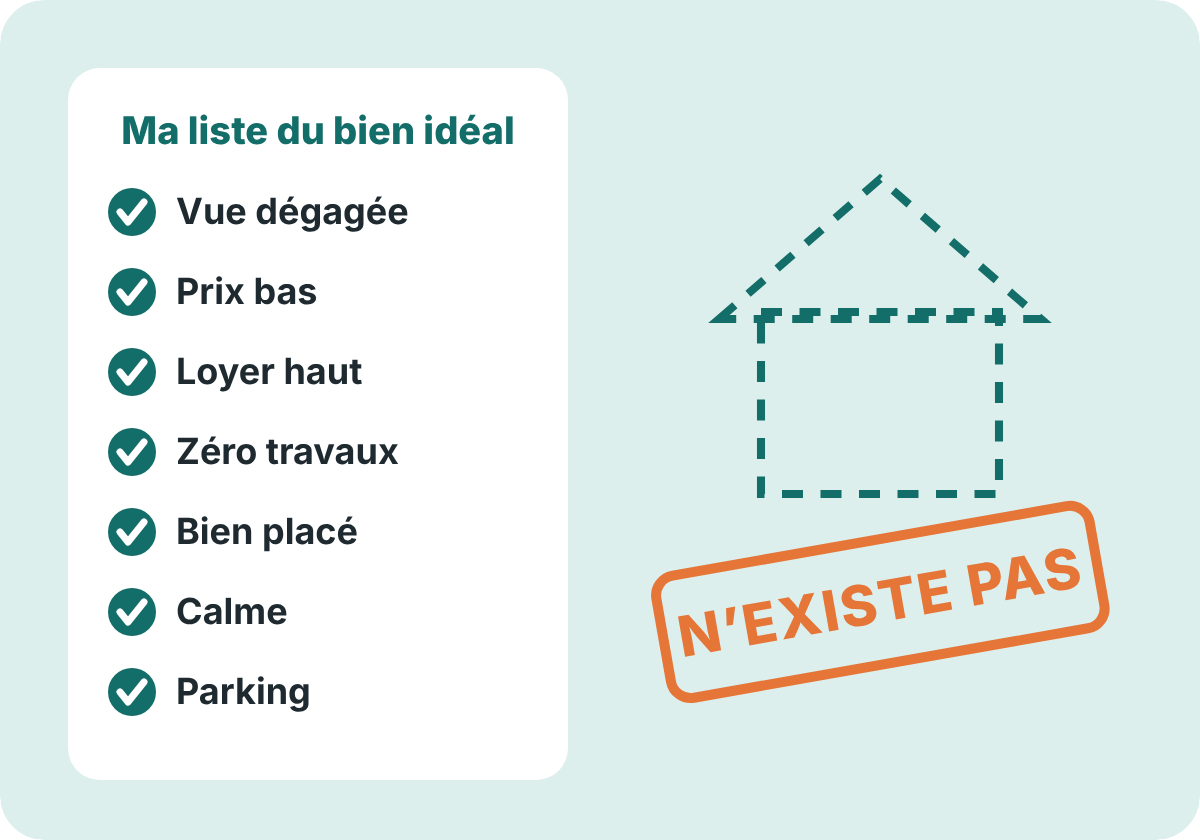
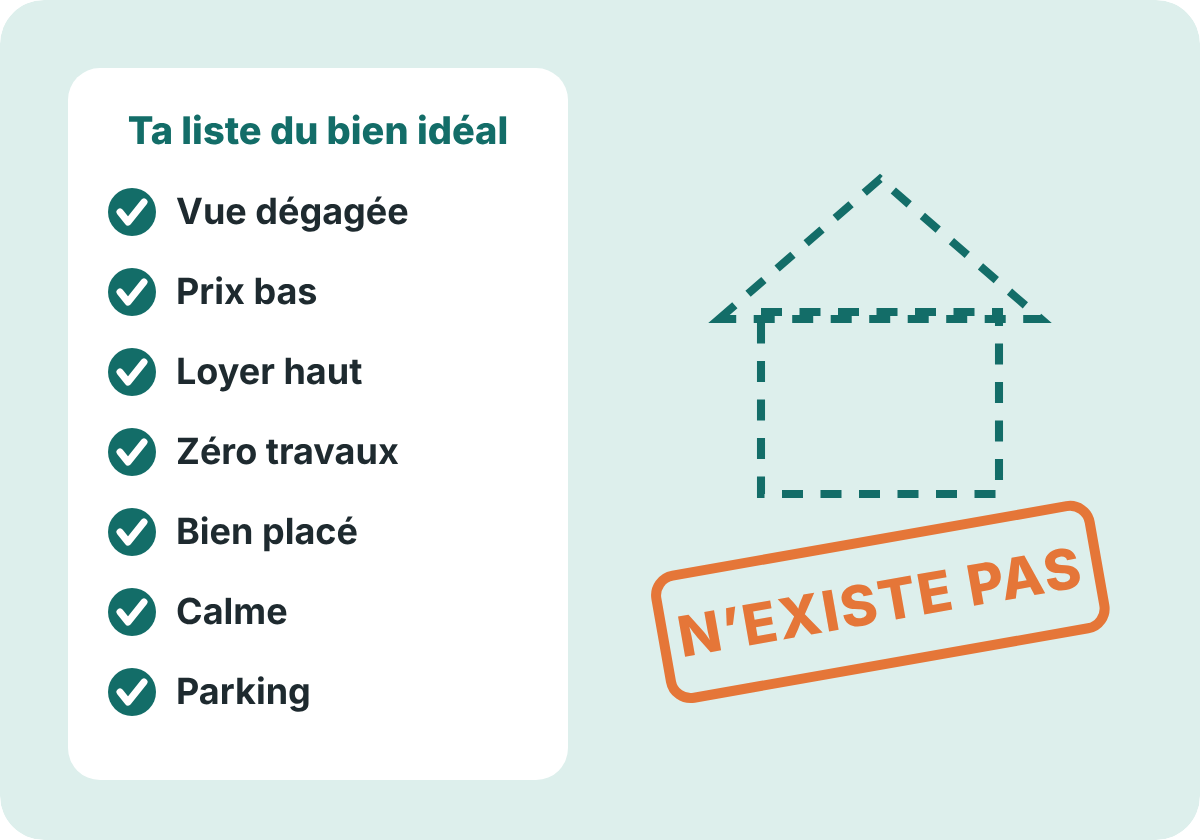
#147 : visuels au tutoiement, sans redites texte/image
Claude-Session: https://claude.ai/code/session_01QEEMWNZxp929Pj8nsugEVU

Changed region(s): [[0.0925, 0.1238, 0.4317, 0.1857]]

diff --git a/outils/build147.py b/outils/build147.py
@@ -59,9 +59,8 @@ A(f'<p style="margin:0 0 28px 0;text-align:center;">{btn("Instagram",LINK_IG,"#F
 
 # ---------------- FESTIVAL LYANNAJ ----------------
 A(kicker("Rappel",ORANGE)+h3("Bloque tes soirées du 20, 21 et 22 novembre"))
-A(p("Avant d’entrer dans le sujet du jour, une date à garder dans ton agenda : le Festival Lyannaj revient."))
+A(p("Avant d’entrer dans le sujet du jour, une date à garder dans ton agenda :"))
 A(png("02-festival","Festival Lyannaj, en live sur Zoom et gratuit : vendredi 20 novembre, soirée immobilier ; samedi 21 novembre, soirée business ; dimanche 22 novembre, soirée dévoilée bientôt. En soirée, heure de Paris.",mb=20))
-A(p("Cette année, on change de format : c’est en live sur Zoom, et c’est gratuit. Aux Antilles, dans l’Hexagone ou ailleurs, tu peux y être. La troisième soirée, je t’en reparle très vite."))
 A(p("Pourquoi ce rendez-vous compte ? Parce que c’est le moment de l’année où on fait le point ensemble, avec des acteurs de la Caraïbe qui font avancer le mouvement."))
 A(p("Si tu as avancé cette année, on va célébrer ce que tu as accompli. Et si ton projet n’a pas bougé pendant que d’autres avançaient, c’est ta dernière occasion de l’année pour rattraper le train : récupérer nos dernières stratégies et repartir avec un plan clair."))
 A(card(p(f"Pour l’instant, une seule chose à faire : {b('bloque ces trois soirées')}. Les infos pour t’inscrire arrivent très vite, ici même, dans le Journal.",size=17,mb=0),bg=ORANGE_L,pad=20,mb=30))
@@ -79,11 +78,10 @@ A(card(kicker("Le témoignage de la semaine")+
 
 # ---------------- PARTIE 1 ----------------
 A(gap(14)+kicker("Partie 1")+h3("Combien d'annonces dans tes favoris ?"))
-A(p("Petite question, et réponds honnêtement. Combien d'annonces tu as enregistrées dans tes favoris ? Sur ton téléphone, sur les sites, dans tes captures d'écran ?"))
+A(p("Petite question, et réponds honnêtement. Sur ton téléphone, sur les sites, dans tes captures d'écran :"))
 A(png("03-favoris","Dans tes favoris : 10 ? 30 ? Analysés jusqu'au bout : ? Offres faites : 0."))
-A(p("Dix ? Trente ? Tu as arrêté de compter ? Et parmi elles, combien de biens tu as vraiment analysés jusqu'au bout ? Avec le calcul, la visite, les questions ? Et combien d'offres tu as faites ?"))
-A(p(f"Si la réponse est « zéro », {b('cette édition est pour toi')}."))
-A(p("Parce que tu n'as pas un problème de motivation. Tu cherches. Tu cherches même beaucoup. Ton problème, c'est que chaque bien a un truc."))
+A(p(f"Si ta dernière ligne affiche « zéro », {b('cette édition est pour toi')}."))
+A(p("Parce que tu n'as pas un problème de motivation. Tu cherches. Tu cherches même beaucoup. Ton problème est ailleurs :"))
 A(png("04-un-truc","Chaque bien a un truc : bien placé mais cuisine à refaire ; bon loyer mais 3e étage sans ascenseur ; coche presque tout, mais peut-être mieux le mois prochain."))
 A(png("05-will","Will : Tu vois le schéma ?",mb=24))
 A(p(f"Tu n'es pas en train de chercher {b('un')} bien. Tu es en train de chercher {b('le')} bien. Celui qui n'a aucun défaut."))
@@ -96,8 +94,7 @@ A(kicker("Partie 2")+h3("Ce qu'un prix Nobel a compris"))
 A(p(f"Dans les années 1950, un chercheur américain, {b('Herbert Simon')}, s'est intéressé à la façon dont on prend vraiment nos décisions. Pas dans les manuels. Dans la vraie vie."))
 A(p(f"Son constat : on n'a jamais toutes les informations, ni tout le temps du monde, pour comparer toutes les options possibles. Donc dans la vraie vie, on ne cherche pas l'option parfaite. On fixe un {b('seuil')}, et on retient une option qui le dépasse."))
 A(png("07-seuil","La méthode du seuil, Herbert Simon, prix Nobel d'économie 1978 : on retient la première option qui dépasse le seuil. Satisficing = satisfaire + suffire.",mb=20))
-A(p(f"Il a popularisé un mot pour ça : {i('satisficing')}, un mélange en anglais de « satisfaire » et de « suffire ». Ses recherches sur la prise de décision lui ont valu le {b('prix Nobel d’économie en 1978')}."))
-A(p(f"Bien plus tard, en {b('2002')}, le psychologue {b('Barry Schwartz')} et son équipe ont comparé deux profils : les {i('maximisateurs')}, qui veulent absolument la meilleure option, et les {i('satisficeurs')}, qui se fixent des critères et choisissent ce qui est assez bon."))
+A(p(f"Il a appelé ça le {i('satisficing')}. Bien plus tard, le psychologue {b('Barry Schwartz')} et son équipe ont comparé deux profils :"))
 A(png("08-max-sat","Maximisateurs : moins heureux, moins satisfaits de leur vie, plus de regrets. Satisficeurs : critères fixés, décident, vivent mieux leurs choix. Barry Schwartz et son équipe, 2002.",mb=20))
 A(p("Dans une de leurs études, les maximisateurs étaient même moins satisfaits de leurs propres achats. Ils cherchaient plus. Mais ils vivaient moins bien leurs choix."))
 A(card(p(i("Et concrètement, pour ton projet immobilier, ça veut dire quoi ?"),size=16,color=PEACH,mb=10)+
@@ -118,13 +115,12 @@ A(f'<table role="presentation" width="100%" cellpadding="0" cellspacing="0" bord
 # ---------------- PARTIE 4 : MÉTHODE ----------------
 A(kicker("Partie 4")+h3("Ta méthode en 4 étapes"))
 A(png("10-will-pouce","Will : Une feuille. Quatre étapes. Dans l'ordre.",mb=16))
-A(p("Prends une feuille, ou une note sur ton téléphone. Et avance dans l'ordre.",size=17,color=MUTED,align="center"))
 A(png("11-marches","Les 4 étapes : 1. Tes 3 critères, 2. Deux colonnes, 3. Règle de décision, 4. Stop au bien rêvé.",mb=30))
 
 A(step("1","Écris tes 3 non-négociables"))
 A(p(f"Avant de rouvrir la moindre annonce, écris les {b('trois')} critères sans lesquels tu ne signes pas. Par exemple :"))
 A(png("12-criteres","Mes 3 non-négociables : budget maximum frais compris ; rentabilité minimale après charges ; la zone, et pourquoi elle. Tout le reste est du bonus : la vue, le carrelage, l'étage.",mb=18))
-A(p(f"Trois. Pas douze. Tout le reste, c'est du {b('bonus')} : agréable si tu l'as, pas disqualifiant si tu ne l'as pas.",mb=32))
+A(p(f"Trois. Pas douze. Le reste est agréable si tu l'as, {b('pas disqualifiant')} si tu ne l'as pas.",mb=32))
 
 A(step("2","Trie les défauts en deux colonnes"))
 A(p("Parce que tous les défauts ne se valent pas."))
@@ -140,15 +136,15 @@ A(p("Et si tu dis non, tu sais pourquoi. La raison est écrite. Pas « j'ai un d
 
 A(step("4","Arrête de comparer avec le bien imaginaire"))
 A(p("Quand tu hésites, demande-toi avec quoi tu compares. Si c'est un autre bien réel, disponible, avec des chiffres : c'est une vraie comparaison. Continue."))
+A(p(f"Mais si tu compares avec « celui qui va peut-être sortir le mois prochain », tu compares avec un bien {b('qui n’existe pas')}.",mb=18))
 A(png("15-imaginaire","Le bien réel a un prix, des défauts, des chiffres. Le bien imaginaire n'a ni prix, ni défaut, ni travaux : il gagne toujours.",mb=18))
-A(p(f"Mais si tu compares avec « celui qui va peut-être sortir le mois prochain », tu compares avec un bien {b('qui n’existe pas')}. Et un bien qui n'existe pas gagnera toujours.",mb=34))
+A(gap(8))
 
 # ---------------- PARTIE 5 : LUDOVIC ----------------
 A(kicker("Partie 5")+h3("Ce que ça change, concrètement"))
 A(p("Imagine Ludovic. Il vit au Lamentin, il a mis de côté un apport, et il veut acheter un appartement à louer."))
 A(png("16-ludovic","Avant, à la recherche du bien parfait : 18 mois de recherche, une dizaine de visites, aucune offre, toujours comparé à un bien imaginaire. Après, avec ses critères écrits : 3 critères, favoris triés, il en reste 2, un chiffré et un écarté, première offre une semaine après.",mb=22))
-A(p(f"Avant, chaque nouveau bien, il le comparait à un appartement idéal qu'il avait dans la tête. Après, il pose ses 3 non-négociables : son budget frais compris, sa rentabilité minimale, et deux communes précises. La plupart de ses favoris ne passent même pas l'étape 1."))
-A(p(f"Il en reste deux. Le premier a une salle de bain à refaire : colonne 1, réparable, il fait chiffrer. Le deuxième est au bord d'une route très passante : colonne 2, définitif, il l'écarte, raison écrite. Une semaine plus tard, il fait sa {b('première offre')}."))
+A(p("Ses deux finalistes ? Le premier a une salle de bain à refaire : réparable, il fait chiffrer. Le deuxième est au bord d'une route très passante : définitif, il l'écarte."))
 A(p("Est-ce que c'est le bien parfait ? Non.",size=19,w="bold",align="center",mb=6))
 A(p(f"Est-ce que c'est un bien qui passe son seuil, avec des défauts connus et chiffrés ? {b('Oui.')}",align="center"))
 A(p(f"Rien n'a changé dans son budget. Ce qui a changé, c'est qu'il sait enfin {b('ce qu’il cherche')}. Et sa recherche a enfin une {b('fin')}."))

diff --git a/outils/illus147.py b/outils/illus147.py
@@ -113,7 +113,7 @@ out["04-un-truc"]=svg(600,462,g,GREY_L)
 # 06. LE BIEN PARFAIT N'EXISTE PAS ---------------------------------------------------------
 crit=["Vue dégagée","Prix bas","Loyer haut","Zéro travaux","Bien placé","Calme","Parking"]
 g=(f'<rect x="34" y="34" width="250" height="356" rx="16" fill="{WHITE}"/>'
-   + txt(159,72,"Ma liste du bien idéal",19,TEAL,800))
+   + txt(159,72,"Ta liste du bien idéal",19,TEAL,800))
 for k,c in enumerate(crit):
     y=106+k*40
     g+=check(66,y,TEAL,12)+txt(88,y+6,c,18,INK,700,anchor="start")
@@ -168,7 +168,7 @@ def coin(cx,cy): return f'<circle cx="{cx}" cy="{cy}" r="26" fill="{TEAL}"/>'+tx
 def chart(cx,cy): return "".join(f'<rect x="{cx-24+k*18}" y="{cy+20-hh}" width="12" height="{hh}" rx="3" fill="{TEAL}"/>' for k,hh in enumerate([16,28,42]))
 def pin(cx,cy): return f'<path d="M{cx} {cy+28} C{cx-26} {cy} {cx-22} {cy-26} {cx} {cy-26} C{cx+22} {cy-26} {cx+26} {cy} {cx} {cy+28} Z" fill="{TEAL}"/><circle cx="{cx}" cy="{cy-6}" r="9" fill="{WHITE}"/>'
 cards=[(coin,"Budget max","frais compris"),(chart,"Rentabilité","mini, après charges"),(pin,"La zone","et pourquoi elle")]
-g=txt(300,46,"MES 3 NON-NÉGOCIABLES",17,TEAL,800,ls=2)
+g=txt(300,46,"TES 3 NON-NÉGOCIABLES",17,TEAL,800,ls=2)
 for k,(ic,a,b) in enumerate(cards):
     x=24+k*192
     g+=(f'<rect x="{x}" y="70" width="168" height="190" rx="16" fill="{WHITE}" stroke="{TEAL}" stroke-width="3"/>'
@@ -205,12 +205,12 @@ def arrow(x1,y1,x2,y2):
     a=math.atan2(y2-y1,x2-x1);
     return (f'<line x1="{x1}" y1="{y1}" x2="{x2}" y2="{y2}" stroke="{INK}" stroke-width="4" stroke-linecap="round"/>'
             f'<path d="M{x2-12*math.cos(a-0.5):.1f} {y2-12*math.sin(a-0.5):.1f} L{x2} {y2} L{x2-12*math.cos(a+0.5):.1f} {y2-12*math.sin(a+0.5):.1f}" stroke="{INK}" stroke-width="4" fill="none" stroke-linecap="round" stroke-linejoin="round"/>')
-g=(box(150,28,300,72,"Le bien passe","mes 3 critères ?",WHITE,INK) + arrow(300,104,300,140)
-   + box(150,144,300,72,"Je l’analyse en entier","dans la semaine",TEAL,WHITE)
+g=(box(150,28,300,72,"Le bien passe","tes 3 critères ?",WHITE,INK) + arrow(300,104,300,140)
+   + box(150,144,300,72,"Tu l’analyses en entier","dans la semaine",TEAL,WHITE)
    + arrow(250,220,160,262) + arrow(350,220,440,262)
-   + box(28,266,260,72,"Je fais","une offre",MANGO,WHITE) + box(312,266,260,72,"J’écris pourquoi","je n’en fais pas",WHITE,INK)
-   + txt(300,376,"Chaque bien qui mérite ton attention reçoit une réponse.",16,GREY,700))
-out["14-regle"]=svg(600,400,g,TEAL_L)
+   + box(28,266,260,72,"Tu fais","une offre",MANGO,WHITE) + box(312,266,260,72,"Tu écris pourquoi","tu n’en fais pas",WHITE,INK)
+   + "")
+out["14-regle"]=svg(600,362,g,TEAL_L)
 
 # 15. RÉEL vs IMAGINAIRE ---------------------------------------------------------------------------
 g=(txt(150,52,"LE BIEN RÉEL",16,TEAL,800,ls=2) + txt(450,52,"LE BIEN IMAGINAIRE",16,MANGO_D,800,ls=2)

diff --git a/outils/LISEZMOI.md b/outils/LISEZMOI.md
@@ -12,3 +12,7 @@ Règles d'affichage téléphone (à respecter dans tout nouveau bloc) :
 - Casser la détection de date d'Apple Mail : `1&zwnj;er janvier`.
 - Texte dans les illustrations : 20 px minimum (image de 600 px réduite à ~360 px sur téléphone).
 - Images publiées dans `NNN/` de ce dépôt. Dans le HTML, toujours épingler les adresses sur le commit exact : `https://cdn.jsdelivr.net/gh/VediGze/debrouya-assets@<SHA du commit>/NNN/` — jamais `@main`, que jsDelivr garde en cache plusieurs jours (images périmées).
+
+Règles éditoriales du format visuel :
+- Une illustration remplace le texte qu'elle montre : ne jamais répéter dans le texte ce que l'image dit déjà (et inversement).
+- Les visuels parlent au lecteur : « ta liste », « tes critères », « tu fais une offre » — jamais « ma / mes / je », qui ferait croire que c'est la liste de Will.
